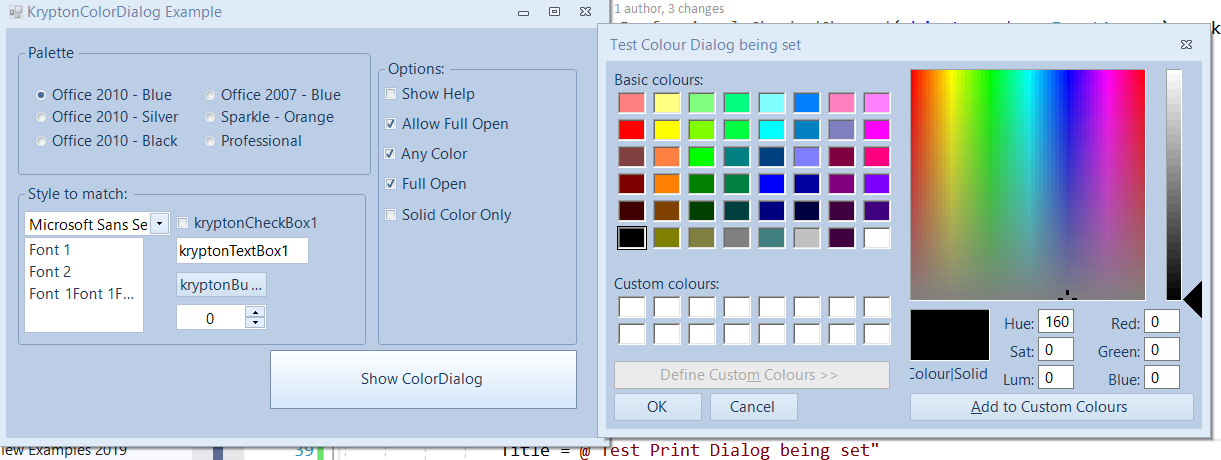
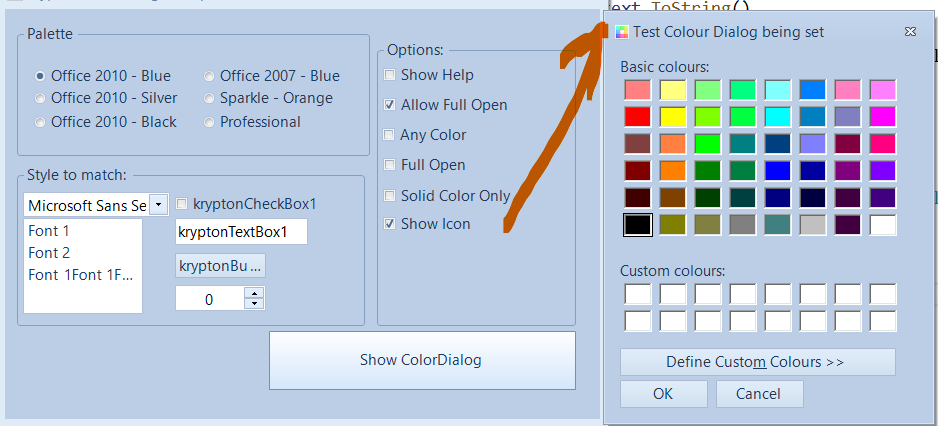
- Add `ShowIcon` checkbox to sample apps - Update example images Implements: https://github.com/Krypton-Suite/Standard-Toolkit/issues/395

diff --git a/Source/Krypton Toolkit Examples/KryptonFontDialog Example/Form1.Designer.cs b/Source/Krypton Toolkit Examples/KryptonFontDialog Example/Form1.Designer.cs
@@ -57,6 +57,7 @@ namespace KryptonFontDialog_Example_2019
             this.kryptonListBox1 = new Krypton.Toolkit.KryptonListBox();
             this.kryptonComboBox1 = new Krypton.Toolkit.KryptonComboBox();
             this.kryptonManager = new Krypton.Toolkit.KryptonManager(this.components);
+            this.chkShowIcon = new Krypton.Toolkit.KryptonCheckBox();
             ((System.ComponentModel.ISupportInitialize)(this.groupBoxPalette)).BeginInit();
             ((System.ComponentModel.ISupportInitialize)(this.groupBoxPalette.Panel)).BeginInit();
             this.groupBoxPalette.Panel.SuspendLayout();
@@ -76,6 +77,9 @@ namespace KryptonFontDialog_Example_2019
             // 
             // groupBoxPalette
             // 
+            this.groupBoxPalette.CaptionStyle = Krypton.Toolkit.LabelStyle.GroupBoxCaption;
+            this.groupBoxPalette.GroupBackStyle = Krypton.Toolkit.PaletteBackStyle.ControlGroupBox;
+            this.groupBoxPalette.GroupBorderStyle = Krypton.Toolkit.PaletteBorderStyle.ControlGroupBox;
             this.groupBoxPalette.Location = new System.Drawing.Point(12, 12);
             this.groupBoxPalette.Margin = new System.Windows.Forms.Padding(3, 2, 3, 2);
             this.groupBoxPalette.Name = "groupBoxPalette";
@@ -178,12 +182,16 @@ namespace KryptonFontDialog_Example_2019
             // 
             // kryptonGroupBox2
             // 
+            this.kryptonGroupBox2.CaptionStyle = Krypton.Toolkit.LabelStyle.GroupBoxCaption;
+            this.kryptonGroupBox2.GroupBackStyle = Krypton.Toolkit.PaletteBackStyle.ControlGroupBox;
+            this.kryptonGroupBox2.GroupBorderStyle = Krypton.Toolkit.PaletteBorderStyle.ControlGroupBox;
             this.kryptonGroupBox2.Location = new System.Drawing.Point(372, 28);
             this.kryptonGroupBox2.Margin = new System.Windows.Forms.Padding(3, 2, 3, 2);
             this.kryptonGroupBox2.Name = "kryptonGroupBox2";
             // 
             // kryptonGroupBox2.Panel
             // 
+            this.kryptonGroupBox2.Panel.Controls.Add(this.chkShowIcon);
             this.kryptonGroupBox2.Panel.Controls.Add(this.chklShowExtendedColours);
             this.kryptonGroupBox2.Panel.Controls.Add(this.chkShowEffects);
             this.kryptonGroupBox2.Panel.Controls.Add(this.chkShowApply);
@@ -276,6 +284,9 @@ namespace KryptonFontDialog_Example_2019
             // 
             // kryptonGroupBox1
             // 
+            this.kryptonGroupBox1.CaptionStyle = Krypton.Toolkit.LabelStyle.GroupBoxCaption;
+            this.kryptonGroupBox1.GroupBackStyle = Krypton.Toolkit.PaletteBackStyle.ControlGroupBox;
+            this.kryptonGroupBox1.GroupBorderStyle = Krypton.Toolkit.PaletteBorderStyle.ControlGroupBox;
             this.kryptonGroupBox1.Location = new System.Drawing.Point(12, 153);
             this.kryptonGroupBox1.Margin = new System.Windows.Forms.Padding(3, 2, 3, 2);
             this.kryptonGroupBox1.Name = "kryptonGroupBox1";
@@ -303,11 +314,14 @@ namespace KryptonFontDialog_Example_2019
             this.kryptonColorButton1.Size = new System.Drawing.Size(90, 25);
             this.kryptonColorButton1.Splitter = false;
             this.kryptonColorButton1.StateCommon.Content.AdjacentGap = 3;
+            this.kryptonColorButton1.StateCommon.Content.Image.Effect = Krypton.Toolkit.PaletteImageEffect.Inherit;
             this.kryptonColorButton1.StateCommon.Content.Image.ImageH = Krypton.Toolkit.PaletteRelativeAlign.Near;
             this.kryptonColorButton1.StateCommon.Content.Image.ImageV = Krypton.Toolkit.PaletteRelativeAlign.Center;
             this.kryptonColorButton1.StateCommon.Content.Padding = new System.Windows.Forms.Padding(5, 0, 0, 0);
+            this.kryptonColorButton1.StateCommon.Content.ShortText.ImageStyle = Krypton.Toolkit.PaletteImageStyle.Inherit;
             this.kryptonColorButton1.StateCommon.Content.ShortText.TextH = Krypton.Toolkit.PaletteRelativeAlign.Near;
             this.kryptonColorButton1.StateCommon.Content.ShortText.TextV = Krypton.Toolkit.PaletteRelativeAlign.Center;
+            this.kryptonColorButton1.StateCommon.Content.ShortText.Trim = Krypton.Toolkit.PaletteTextTrim.Inherit;
             this.kryptonColorButton1.TabIndex = 7;
             this.kryptonColorButton1.Values.Text = "Black";
             this.kryptonColorButton1.SelectedColorChanged += new System.EventHandler<Krypton.Toolkit.ColorEventArgs>(this.KryptonColorButton1_SelectedColorChanged);
@@ -375,6 +389,15 @@ namespace KryptonFontDialog_Example_2019
             this.kryptonComboBox1.TabIndex = 0;
             this.kryptonComboBox1.Text = "Microsoft Sans Serif";
             // 
+            // chkShowIcon
+            // 
+            this.chkShowIcon.Location = new System.Drawing.Point(3, 235);
+            this.chkShowIcon.Margin = new System.Windows.Forms.Padding(3, 2, 3, 2);
+            this.chkShowIcon.Name = "chkShowIcon";
+            this.chkShowIcon.Size = new System.Drawing.Size(95, 24);
+            this.chkShowIcon.TabIndex = 8;
+            this.chkShowIcon.Values.Text = "Show Icon";
+            // 
             // Form1
             // 
             this.AutoScaleDimensions = new System.Drawing.SizeF(8F, 16F);
@@ -435,6 +458,7 @@ namespace KryptonFontDialog_Example_2019
         private Krypton.Toolkit.KryptonManager kryptonManager;
         private Krypton.Toolkit.KryptonCheckBox chklShowExtendedColours;
         private Krypton.Toolkit.KryptonColorButton kryptonColorButton1;
+        private Krypton.Toolkit.KryptonCheckBox chkShowIcon;
     }
 }
 

diff --git a/Source/Krypton Toolkit Examples/KryptonColorDialog Example/Form1.Designer.cs b/Source/Krypton Toolkit Examples/KryptonColorDialog Example/Form1.Designer.cs
@@ -40,6 +40,7 @@ namespace KryptonFontDialog_Example_2019
             this.buttonShowFontDialog = new Krypton.Toolkit.KryptonButton();
             this.kryptonPanel1 = new Krypton.Toolkit.KryptonPanel();
             this.kryptonGroupBox2 = new Krypton.Toolkit.KryptonGroupBox();
+            this.chkShowIcon = new Krypton.Toolkit.KryptonCheckBox();
             this.chkSolidColorOnly = new Krypton.Toolkit.KryptonCheckBox();
             this.chkFullOPen = new Krypton.Toolkit.KryptonCheckBox();
             this.chkAnyColor = new Krypton.Toolkit.KryptonCheckBox();
@@ -72,6 +73,9 @@ namespace KryptonFontDialog_Example_2019
             // 
             // groupBoxPalette
             // 
+            this.groupBoxPalette.CaptionStyle = Krypton.Toolkit.LabelStyle.GroupBoxCaption;
+            this.groupBoxPalette.GroupBackStyle = Krypton.Toolkit.PaletteBackStyle.ControlGroupBox;
+            this.groupBoxPalette.GroupBorderStyle = Krypton.Toolkit.PaletteBorderStyle.ControlGroupBox;
             this.groupBoxPalette.Location = new System.Drawing.Point(12, 12);
             this.groupBoxPalette.Margin = new System.Windows.Forms.Padding(3, 2, 3, 2);
             this.groupBoxPalette.Name = "groupBoxPalette";
@@ -174,12 +178,16 @@ namespace KryptonFontDialog_Example_2019
             // 
             // kryptonGroupBox2
             // 
+            this.kryptonGroupBox2.CaptionStyle = Krypton.Toolkit.LabelStyle.GroupBoxCaption;
+            this.kryptonGroupBox2.GroupBackStyle = Krypton.Toolkit.PaletteBackStyle.ControlGroupBox;
+            this.kryptonGroupBox2.GroupBorderStyle = Krypton.Toolkit.PaletteBorderStyle.ControlGroupBox;
             this.kryptonGroupBox2.Location = new System.Drawing.Point(372, 28);
             this.kryptonGroupBox2.Margin = new System.Windows.Forms.Padding(3, 2, 3, 2);
             this.kryptonGroupBox2.Name = "kryptonGroupBox2";
             // 
             // kryptonGroupBox2.Panel
             // 
+            this.kryptonGroupBox2.Panel.Controls.Add(this.chkShowIcon);
             this.kryptonGroupBox2.Panel.Controls.Add(this.chkSolidColorOnly);
             this.kryptonGroupBox2.Panel.Controls.Add(this.chkFullOPen);
             this.kryptonGroupBox2.Panel.Controls.Add(this.chkAnyColor);
@@ -188,6 +196,15 @@ namespace KryptonFontDialog_Example_2019
             this.kryptonGroupBox2.Size = new System.Drawing.Size(199, 289);
             this.kryptonGroupBox2.TabIndex = 21;
             this.kryptonGroupBox2.Values.Heading = "Options:";
+            // 
+            // chkShowIcon
+            // 
+            this.chkShowIcon.Location = new System.Drawing.Point(4, 149);
+            this.chkShowIcon.Margin = new System.Windows.Forms.Padding(3, 2, 3, 2);
+            this.chkShowIcon.Name = "chkShowIcon";
+            this.chkShowIcon.Size = new System.Drawing.Size(95, 24);
+            this.chkShowIcon.TabIndex = 5;
+            this.chkShowIcon.Values.Text = "Show Icon";
             // 
             // chkSolidColorOnly
             // 
@@ -238,6 +255,9 @@ namespace KryptonFontDialog_Example_2019
             // 
             // kryptonGroupBox1
             // 
+            this.kryptonGroupBox1.CaptionStyle = Krypton.Toolkit.LabelStyle.GroupBoxCaption;
+            this.kryptonGroupBox1.GroupBackStyle = Krypton.Toolkit.PaletteBackStyle.ControlGroupBox;
+            this.kryptonGroupBox1.GroupBorderStyle = Krypton.Toolkit.PaletteBorderStyle.ControlGroupBox;
             this.kryptonGroupBox1.Location = new System.Drawing.Point(12, 153);
             this.kryptonGroupBox1.Margin = new System.Windows.Forms.Padding(3, 2, 3, 2);
             this.kryptonGroupBox1.Name = "kryptonGroupBox1";
@@ -323,7 +343,10 @@ namespace KryptonFontDialog_Example_2019
             this.AutoScaleMode = System.Windows.Forms.AutoScaleMode.Font;
             this.ClientSize = new System.Drawing.Size(595, 410);
             this.Controls.Add(this.kryptonPanel1);
+            this.FormBorderStyle = System.Windows.Forms.FormBorderStyle.FixedSingle;
             this.Margin = new System.Windows.Forms.Padding(3, 2, 3, 2);
+            this.MaximizeBox = false;
+            this.MinimizeBox = false;
             this.Name = "Form1";
             this.Text = "KryptonColorDialog Example";
             ((System.ComponentModel.ISupportInitialize)(this.groupBoxPalette.Panel)).EndInit();
@@ -373,6 +396,7 @@ namespace KryptonFontDialog_Example_2019
         private Krypton.Toolkit.KryptonCheckBox chkFullOPen;
         private Krypton.Toolkit.KryptonCheckBox chkAnyColor;
         private Krypton.Toolkit.KryptonManager kryptonManager;
+        private Krypton.Toolkit.KryptonCheckBox chkShowIcon;
     }
 }
 

diff --git a/Source/Krypton Toolkit Examples/KryptonColorDialog Example/Properties/Resources.Designer.cs b/Source/Krypton Toolkit Examples/KryptonColorDialog Example/Properties/Resources.Designer.cs
@@ -1,0 +1,73 @@
+//------------------------------------------------------------------------------
+// <auto-generated>
+//     This code was generated by a tool.
+//     Runtime Version:4.0.30319.42000
+//
+//     Changes to this file may cause incorrect behavior and will be lost if
+//     the code is regenerated.
+// </auto-generated>
+//------------------------------------------------------------------------------
+
+namespace KryptonColorDialog.Properties {
+    using System;
+    
+    
+    /// <summary>
+    ///   A strongly-typed resource class, for looking up localized strings, etc.
+    /// </summary>
+    // This class was auto-generated by the StronglyTypedResourceBuilder
+    // class via a tool like ResGen or Visual Studio.
+    // To add or remove a member, edit your .ResX file then rerun ResGen
+    // with the /str option, or rebuild your VS project.
+    [global::System.CodeDom.Compiler.GeneratedCodeAttribute("System.Resources.Tools.StronglyTypedResourceBuilder", "16.0.0.0")]
+    [global::System.Diagnostics.DebuggerNonUserCodeAttribute()]
+    [global::System.Runtime.CompilerServices.CompilerGeneratedAttribute()]
+    internal class Resources {
+        
+        private static global::System.Resources.ResourceManager resourceMan;
+        
+        private static global::System.Globalization.CultureInfo resourceCulture;
+        
+        [global::System.Diagnostics.CodeAnalysis.SuppressMessageAttribute("Microsoft.Performance", "CA1811:AvoidUncalledPrivateCode")]
+        internal Resources() {
+        }
+        
+        /// <summary>
+        ///   Returns the cached ResourceManager instance used by this class.
+        /// </summary>
+        [global::System.ComponentModel.EditorBrowsableAttribute(global::System.ComponentModel.EditorBrowsableState.Advanced)]
+        internal static global::System.Resources.ResourceManager ResourceManager {
+            get {
+                if (object.ReferenceEquals(resourceMan, null)) {
+                    global::System.Resources.ResourceManager temp = new global::System.Resources.ResourceManager("KryptonColorDialog.Properties.Resources", typeof(Resources).Assembly);
+                    resourceMan = temp;
+                }
+                return resourceMan;
+            }
+        }
+        
+        /// <summary>
+        ///   Overrides the current thread's CurrentUICulture property for all
+        ///   resource lookups using this strongly typed resource class.
+        /// </summary>
+        [global::System.ComponentModel.EditorBrowsableAttribute(global::System.ComponentModel.EditorBrowsableState.Advanced)]
+        internal static global::System.Globalization.CultureInfo Culture {
+            get {
+                return resourceCulture;
+            }
+            set {
+                resourceCulture = value;
+            }
+        }
+        
+        /// <summary>
+        ///   Looks up a localized resource of type System.Drawing.Icon similar to (Icon).
+        /// </summary>
+        internal static System.Drawing.Icon Krypton {
+            get {
+                object obj = ResourceManager.GetObject("Krypton", resourceCulture);
+                return ((System.Drawing.Icon)(obj));
+            }
+        }
+    }
+}

diff --git a/Source/Krypton Toolkit Examples/KryptonColorDialog Example/Form1.cs b/Source/Krypton Toolkit Examples/KryptonColorDialog Example/Form1.cs
@@ -3,11 +3,18 @@ using System.Windows.Forms;
 
 using Krypton.Toolkit;
 
+using KryptonColorDialog.Properties;
+
 namespace KryptonFontDialog_Example_2019
 {
     public partial class Form1 : KryptonForm
     {
-        public Form1() => InitializeComponent();
+        public Form1()
+        {
+            InitializeComponent();
+            Icon = Resources.Krypton;
+
+        }
 
         private void Palette2010Blue_CheckedChanged(object sender, EventArgs e) => kryptonManager.GlobalPaletteMode = PaletteModeManager.Office2010Blue;
 
@@ -24,14 +31,15 @@ namespace KryptonFontDialog_Example_2019
         private int[] customColors;
         private void ButtonShowFontDialog_Click(object sender, EventArgs e)
         {
-            var kfd = new KryptonColorDialog {
+            var kfd = new Krypton.Toolkit.KryptonColorDialog {
                 AllowFullOpen = chkAllowFullOpen.Checked,
                 ShowHelp = chkShowHelp.Checked,
                 AnyColor = chkAnyColor.Checked,
                 FullOpen = chkFullOPen.Checked,
                 SolidColorOnly = chkSolidColorOnly.Checked,
                 CustomColors = customColors,
-                Title = @"Test Colour Dialog being set"
+                Title = @"Test Colour Dialog being set",
+                ShowIcon = chkShowIcon.Checked
             };
             if (kfd.ShowDialog(this) == DialogResult.OK)
             {

diff --git a/Source/Krypton Toolkit Examples/KryptonFontDialog Example/Form1.cs b/Source/Krypton Toolkit Examples/KryptonFontDialog Example/Form1.cs
@@ -45,7 +45,8 @@ namespace KryptonFontDialog_Example_2019
                 Font = fontLast,
                 Title = @"Test Font Dialog being set",
                 DisplayIsPrinterFontDescription = true,
-                DisplayExtendedColorsButton = chklShowExtendedColours.Checked
+                DisplayExtendedColorsButton = chklShowExtendedColours.Checked,
+                ShowIcon = chkShowIcon.Checked
            };
             kfd.Color = Color.DarkOliveGreen;
             if (kfd.ShowDialog(this) == DialogResult.OK)
